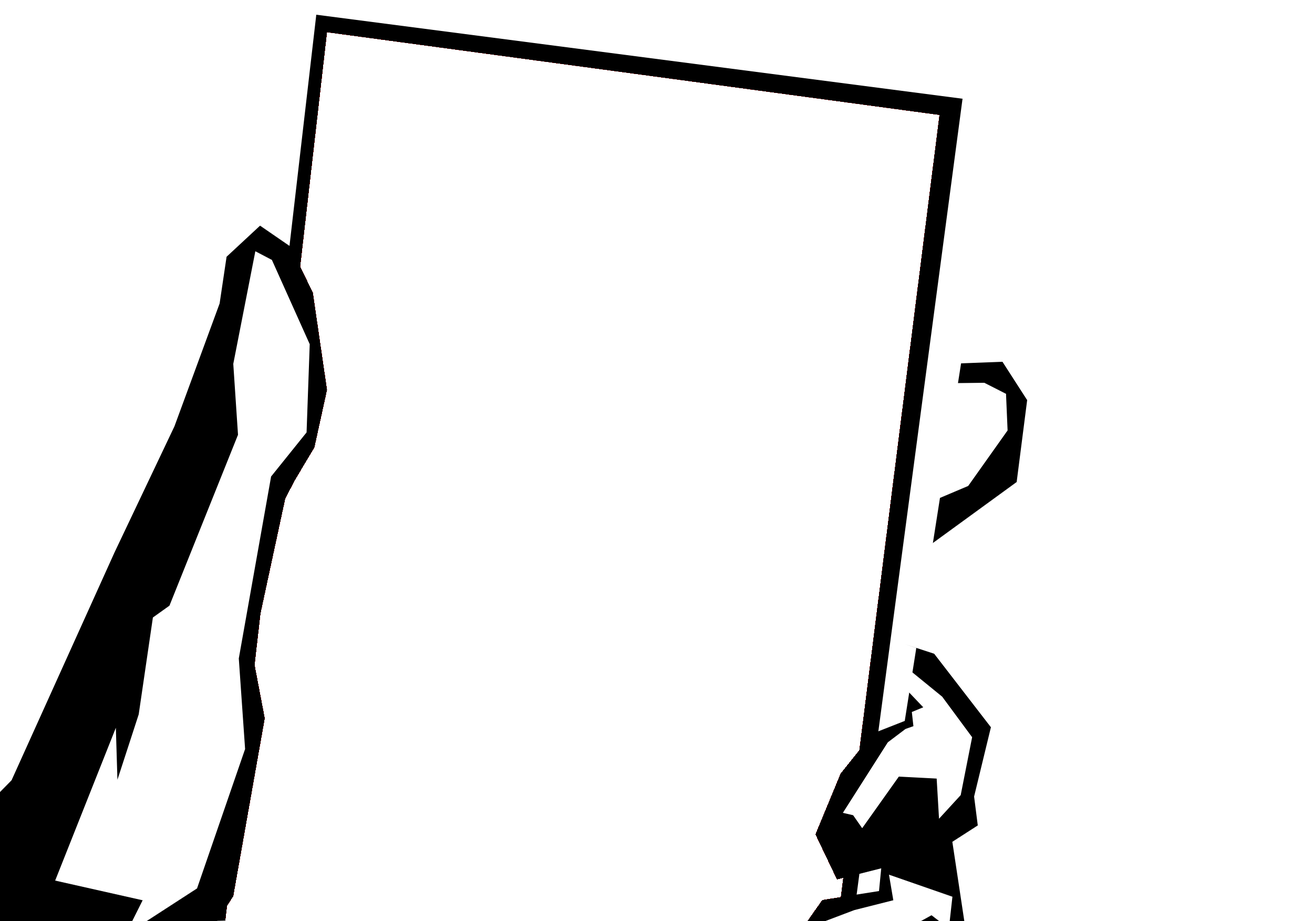
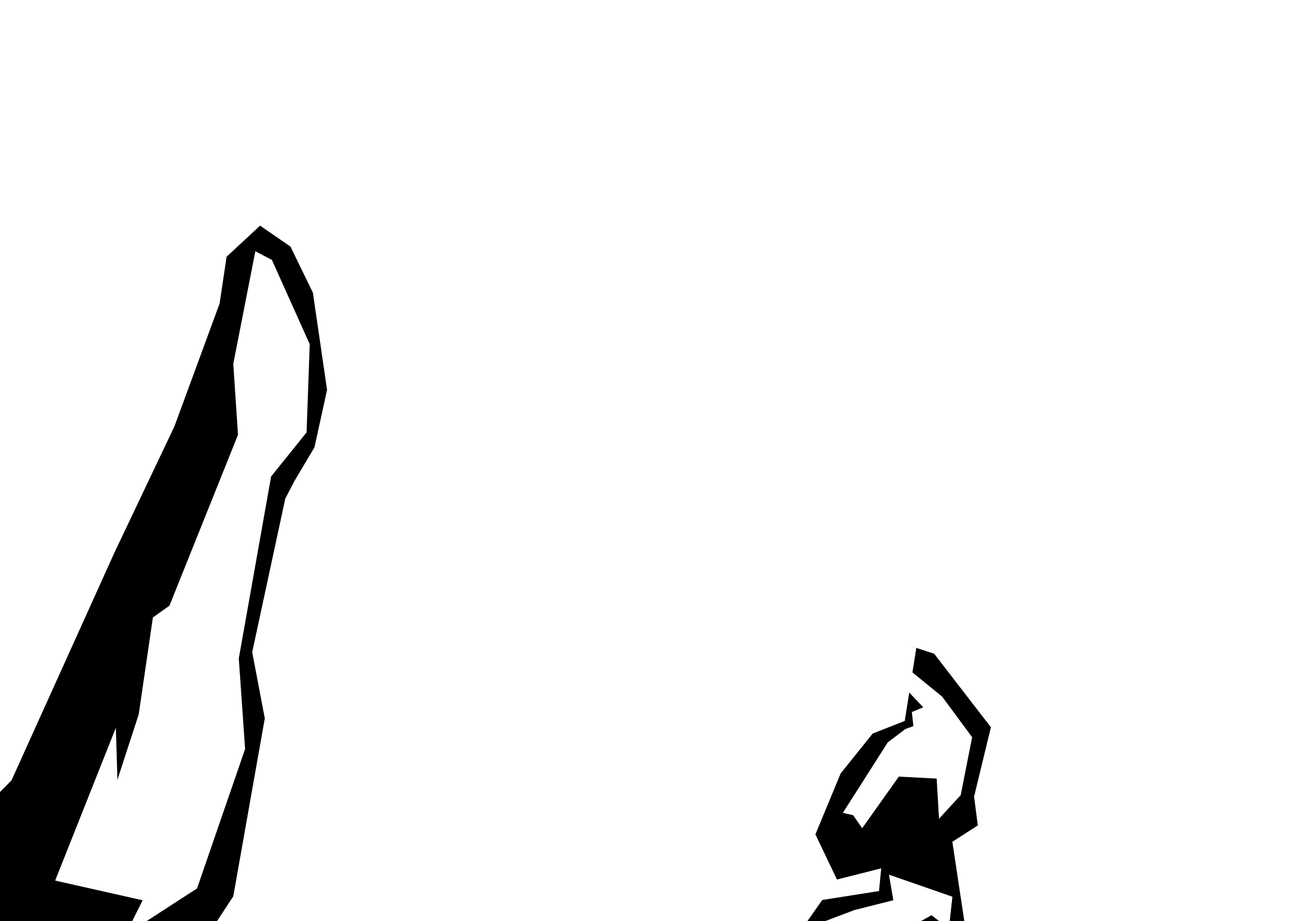
Celular em tamanho inteiro com mãos por cima (camadas separadas) e mapa em tela cheia
Claude-Session: https://claude.ai/code/session_01Tm8GAvJJ9y8sLRD2qUqjbi

Changed region(s): [[0.2173, 0.0, 0.8073, 0.8005], [0.621, 0.9544, 0.6831, 0.9852], [0.1552, 0.9852, 0.1863, 1.0]]

diff --git a/index.html b/index.html
@@ -205,30 +205,38 @@ a.btn{text-decoration:none;color:var(--bone);display:inline-block;text-align:cen
 .cel-mao{position:absolute;left:50%;bottom:0;width:min(98vw,calc(100vh * 1.414));aspect-ratio:2480/1754;transform:translate(-50%,105%) rotate(-14deg);transform-origin:50% 100%;transition:transform .42s cubic-bezier(.2,.9,.25,1.12)}
 .cel.show .cel-mao{transform:translate(-50%,3%) rotate(0deg)}
 .cel-mao img{position:absolute;inset:0;width:100%;height:100%;user-select:none}
-.cel-maos{pointer-events:none}
+.cel-maos{pointer-events:none;opacity:.8}
 .cel-mascara{position:absolute;inset:0;-webkit-mask-image:url(img/celular-mascara.png);mask-image:url(img/celular-mascara.png);-webkit-mask-size:100% 100%;mask-size:100% 100%}
-.cel-tela{position:absolute;left:24.8%;top:3.3%;width:48.3%;height:78%;transform:rotate(7.5deg);transform-origin:0 0;display:flex;flex-direction:column;padding:2.2% 3% 0 9%;color:#fff;font-size:14px}
+.cel-tela{font-size:15px;position:absolute;left:24.8%;top:3.3%;width:48.3%;height:96%;transform:rotate(7.5deg);transform-origin:0 0;display:flex;flex-direction:column;padding:2.2% 3% 0 4%;color:#fff;font-size:14px}
 .cel-topo{display:flex;align-items:center;gap:8px;padding:6px 0 8px;border-bottom:3px solid #000}
 .cel-topo h2{flex:1;margin:0;font:900 italic 22px/1 var(--display);color:#fff;text-shadow:3px 3px 0 #000;letter-spacing:.5px}
 .cel-hora{font:800 13px/1 var(--body);background:#000;color:#fff;padding:4px 8px;transform:skew(-10deg)}
 .cel-bt{width:34px;height:34px;display:grid;place-items:center;background:#000;color:#fff;border:2px solid #fff;font:900 18px/1 var(--body);cursor:pointer;transform:skew(-8deg)}
 .cel-bt:hover,.cel-bt:focus-visible{background:#fff;color:#000;outline:none}
-.cel-corpo{flex:1;overflow:auto;padding:10px 4px 32% 0;scrollbar-width:thin;scrollbar-color:#000 transparent}
+.cel-corpo{flex:1;overflow:auto;padding:10px 4px 60px 0;scrollbar-width:thin;scrollbar-color:#000 transparent}
 .cel-app{display:flex;flex-direction:column;gap:10px}
 .cel .panel{background:#0b0a0c;border:2px solid #fff;border-radius:2px;box-shadow:4px 4px 0 #000;padding:12px}
 .cel .panel:empty{display:none}
-.cel-grade{display:grid;grid-template-columns:repeat(3,minmax(0,1fr));gap:16px 10px;padding:8px 2px}
+.cel-grade{display:grid;grid-template-columns:repeat(3,minmax(0,1fr));gap:26px 12px;padding:14px 2px}
 .cel-ic{display:flex;flex-direction:column;align-items:center;gap:6px;background:none;border:0;cursor:pointer;color:#fff;padding:0}
-.cel-ic .q{width:64px;height:64px;display:grid;place-items:center;background:#fff;border:3px solid #000;box-shadow:4px 4px 0 #000;font:900 30px/1 'Shippori Mincho B1',serif;color:#000;transition:transform .12s}
+.cel-ic .q{width:78px;height:78px;display:grid;place-items:center;background:#fff;border:3px solid #000;box-shadow:4px 4px 0 #000;font:900 36px/1 'Shippori Mincho B1',serif;color:#000;transition:transform .12s}
 .cel-ic:nth-child(3n+2) .q{transform:rotate(4deg)}.cel-ic:nth-child(3n) .q{transform:rotate(-3deg)}.cel-ic:nth-child(3n+1) .q{transform:rotate(-5deg)}
 .cel-ic:hover .q,.cel-ic:focus-visible .q{transform:scale(1.08) rotate(0);background:#000;color:#fff;border-color:#fff}
 .cel-ic:focus-visible{outline:none}
-.cel-ic span{font:900 12px/1.1 var(--body);background:#000;color:#fff;padding:3px 7px;letter-spacing:.5px;text-transform:uppercase;transform:skew(-10deg)}
+.cel-ic span{font:900 14px/1.1 var(--body);background:#000;color:#fff;padding:3px 7px;letter-spacing:.5px;text-transform:uppercase;transform:skew(-10deg)}
 .cel-ic.off{opacity:.45}
 .mapa-cel{display:flex;flex-direction:column;gap:10px}
 .mapa-cel .map-frame{box-shadow:4px 4px 0 #000;border-width:2px}
 .cel .loc-card{background:#0b0a0c;border:2px solid #fff;padding:12px;border-radius:2px;box-shadow:4px 4px 0 #000}
 @media (prefers-reduced-motion:reduce){.cel-mao,.cel-fundo{transition:none}}
+.mapa-tela{position:fixed;inset:0;z-index:45;background:#0b0a0c;display:flex;flex-direction:column;gap:12px;padding:14px 18px 18px;overflow:auto;animation:mapaEntra .25s ease-out}
+@keyframes mapaEntra{from{opacity:0;transform:scale(1.03)}to{opacity:1;transform:none}}
+body.sem-animacao .mapa-tela{animation:none}
+.mapa-topo{display:flex;align-items:center;gap:12px}
+.mapa-topo h2{flex:1;margin:0;font:900 italic 30px/1 var(--display);color:#fff;text-shadow:3px 3px 0 #d3121c;letter-spacing:1px}
+.mapa-tela .mapa-grid{flex:1;grid-template-columns:minmax(0,1fr) 320px;align-items:start}
+.mapa-tela .map-frame{max-height:calc(100vh - 90px)}
+.mapa-tela #map{max-height:calc(100vh - 96px);width:100%}
 body.sem-animacao .cel-mao,body.sem-animacao .cel-fundo{transition:none}
 body.texto-grande .chat-log{font-size:17px}
 body:has(#view-mundo:not([hidden])) #btn-sair{display:none}
@@ -546,6 +554,10 @@ textarea.mono{font-family:ui-monospace,monospace;font-size:12px}
   </div>
 </div>
 
+<div class="mapa-tela" id="mapa-tela" role="dialog" aria-modal="true" aria-labelledby="mapa-tit" hidden>
+  <div class="mapa-topo"><button type="button" class="cel-bt" id="mapa-cel" aria-label="Voltar ao celular">‹</button><h2 id="mapa-tit">Mapa</h2><button type="button" class="cel-bt" id="mapa-fechar" aria-label="Fechar o mapa">✕</button></div>
+  <div id="mapa-view" class="mapa-grid"><div class="map-frame"><svg id="map" viewBox="0 0 1000 640" role="img" aria-label="Mapa de Tóquio e Kyoto"></svg></div><div class="loc-card" id="loc-card"></div></div>
+</div>
 <div class="cel" id="cel" hidden>
   <div class="cel-fundo" data-celfechar="1"></div>
   <div class="cel-mao" role="dialog" aria-modal="true" aria-labelledby="cel-titulo">
@@ -554,8 +566,6 @@ textarea.mono{font-family:ui-monospace,monospace;font-size:12px}
       <div class="cel-topo"><button type="button" class="cel-bt" id="cel-voltar" aria-label="Voltar">‹</button><h2 id="cel-titulo">Celular</h2><span class="cel-hora" id="cel-hora"></span><button type="button" class="cel-bt" data-celfechar="1" aria-label="Guardar o celular">✕</button></div>
       <div class="cel-corpo" id="cel-corpo">
         <section class="cel-app" data-app="home"><div class="cel-grade" id="cel-grade"></div></section>
-        <section class="cel-app" data-app="mapa" hidden>
-          <div id="mapa-view" class="mapa-cel"><div class="map-frame"><svg id="map" viewBox="0 0 1000 640" role="img" aria-label="Mapa de Tóquio e Kyoto"></svg></div><div class="loc-card" id="loc-card"></div></div></section>
         <section class="cel-app" data-app="objetivos" hidden><div class="panel" id="minha-missao"></div><div class="panel" id="cel-sem-missao"></div></section>
         <section class="cel-app" data-app="descanso" hidden><div class="panel" id="descanso-panel"></div><div class="panel" id="cel-sem-descanso"></div></section>
         <section class="cel-app" data-app="cena" hidden><div class="panel" id="presentes"></div><div class="panel" id="loc-info"></div></section>
@@ -1284,7 +1294,7 @@ function salvarMeuLocal(){try{localStorage.setItem('jjk-jogador',JSON.stringify(
 async function atualizarMeu(patch){
   meu={...meu,...patch,atualizado:new Date().toISOString()};jogadores.set(uid||'eu',{...meu});
   if(db&&uid){const ref=db.doc('jogadores/'+uid);writeChain=writeChain.then(()=>ref.update(patch)).catch(()=>{});await writeChain;}else salvarMeuLocal();
-  renderHud();if(canalAtual)renderPresentes();if(celApp==='mapa')renderMapa();if(celApp==='inventario')renderInv();if(celApp==='ficha')renderCelFicha();
+  renderHud();if(canalAtual)renderPresentes();if(mapaAberto)renderMapa();if(celApp==='inventario')renderInv();if(celApp==='ficha')renderCelFicha();
   if(patch.estado&&typeof sincronizarPvCombate==='function')sincronizarPvCombate();
 }
 
@@ -2467,13 +2477,17 @@ function renderCombate(){
 /* ---------- Seu celular ---------- */
 let celApp=null;
 const CEL_APPS=[['mapa','地','Mapa'],['objetivos','任','Objetivos'],['descanso','寮','Descanso'],['cena','人','Na cena'],['inventario','袋','Inventário'],['npcs','書','NPCs'],['ficha','札','Ficha'],['config','設','Ajustes']];
+let mapaAberto=false;
+function abrirMapa(){fecharCel(true);const m=$('#mapa-tela');m.hidden=false;mapaAberto=true;if(meu)selLoc=meu.local?raiz(meu.local):(selLoc||casaDe(myId()));renderMapa();setTimeout(()=>{const b=$('#mapa-fechar');b&&b.focus();},30);}
+function fecharMapa(){const m=$('#mapa-tela');if(m.hidden)return;m.hidden=true;mapaAberto=false;}
 const CEL_TIT={home:'Celular',mapa:'Mapa',objetivos:'Objetivos',descanso:'Descanso',cena:'Na cena',inventario:'Inventário',npcs:'Livro de NPCs',ficha:'Sua ficha',config:'Ajustes'};
 function abrirCel(app){
   const c=$('#cel');if(c.hidden){c.hidden=false;void c.offsetWidth;c.classList.add('show');}
   celIr(app||celApp||'home');setTimeout(()=>{const b=$('#cel-voltar');b&&b.focus();},50);
 }
-function fecharCel(){const c=$('#cel');if(c.hidden)return;c.classList.remove('show');celApp=null;setTimeout(()=>{if(!c.classList.contains('show'))c.hidden=true;},document.body.classList.contains('sem-animacao')?0:430);const b=$('#btn-cel');b&&b.focus();}
+function fecharCel(semFoco){const c=$('#cel');if(c.hidden)return;c.classList.remove('show');celApp=null;setTimeout(()=>{if(!c.classList.contains('show'))c.hidden=true;},document.body.classList.contains('sem-animacao')?0:430);if(!semFoco){const b=$('#btn-cel');b&&b.focus();}}
 function celIr(app){
+  if(app==='mapa'){abrirMapa();return;}
   celApp=app;document.querySelectorAll('#cel .cel-app').forEach(sec=>sec.hidden=sec.dataset.app!==app);
   $('#cel-titulo').textContent=CEL_TIT[app]||'Celular';$('#cel-voltar').style.visibility=app==='home'?'hidden':'visible';
   $('#cel-hora').textContent=new Date().toLocaleTimeString('pt-BR',{hour:'2-digit',minute:'2-digit'});$('#cel-corpo').scrollTop=0;
@@ -2483,7 +2497,6 @@ function renderCelApp(){
   const a=celApp;if(!a)return;
   if(a==='home'){const quarto=!!locById(canalAtual)?.quarto;
     $('#cel-grade').innerHTML=CEL_APPS.map(([k,kj,n])=>`<button type="button" class="cel-ic${k==='descanso'&&!quarto?' off':''}" data-celapp="${k}"><span class="q" aria-hidden="true">${kj}</span><span>${n}</span></button>`).join('');}
-  if(a==='mapa'){if(meu)selLoc=selLoc||raiz(meu.local||casaDe(myId()));renderMapa();}
   if(a==='objetivos'){renderMissoes();const mm=minhaMissao(),mp=missaoPessoal();$('#cel-sem-missao').innerHTML=mm||mp?'':'<p class="note" style="margin:0">Nenhuma missão no momento. Vá ao Quadro de Missões da escola para pegar um chamado.</p>';
     if(!mm&&!mp)$('#minha-missao').innerHTML='';}
   if(a==='descanso'){renderDescanso();const ok=!!locById(canalAtual)?.quarto;$('#cel-sem-descanso').innerHTML=ok?'':`<p class="note" style="margin:0">Descanso só no quarto do dormitório.</p>${meu?`<button class="btn small" data-celquarto="1" style="margin-top:8px">Ir para o meu quarto</button>`:''}`;}
@@ -2512,7 +2525,9 @@ function renderCelConfig(){
 }
 (()=>{try{if(localStorage.getItem('jjk-cfg-anim')==='0')document.body.classList.add('sem-animacao');if(localStorage.getItem('jjk-cfg-texto')==='g')document.body.classList.add('texto-grande');}catch{}})();
 document.addEventListener('click',e=>{
-  const t=e.target.closest('[data-celfechar],[data-celapp],#btn-cel,#cel-voltar,[data-celficha],[data-celcfg],[data-celquarto]');if(!t)return;
+  const t=e.target.closest('[data-celfechar],[data-celapp],#btn-cel,#cel-voltar,[data-celficha],[data-celcfg],[data-celquarto],#mapa-cel,#mapa-fechar');if(!t)return;
+  if(t.id==='mapa-fechar'){fecharMapa();const b=$('#btn-cel');b&&b.focus();return;}
+  if(t.id==='mapa-cel'){fecharMapa();abrirCel('home');return;}
   if(t.id==='btn-cel'){abrirCel();return;}
   if(t.id==='cel-voltar'){celIr('home');return;}
   if(t.dataset.celapp){celIr(t.dataset.celapp);return;}
@@ -2532,17 +2547,17 @@ async function route(){
   if(adm){$('#view-ficha').hidden=true;$('#view-mundo').hidden=true;renderAdmin();return;}
   const mundo=h==='mapa'||h.startsWith('local-');
   $('#view-ficha').hidden=mundo;$('#view-mundo').hidden=!mundo;
-  if(!mundo){fecharCel();if(canalUnsub){canalUnsub();canalUnsub=null;}canalAtual=null;return;}
+  if(!mundo){fecharCel(true);fecharMapa();if(canalUnsub){canalUnsub();canalUnsub=null;}canalAtual=null;return;}
   if(!F.nome.trim()){location.hash='ficha';return;}
   if(!meu)await ensureJogador();
   else{const mx=maximos(meu.bonusMax);if(['pv','pa','pe'].some(k=>mx[k]!==meu.max?.[k]))await atualizarMeu({max:mx,estado:{pv:Math.min(meu.estado.pv,mx.pv),pa:Math.min(meu.estado.pa,mx.pa),pe:Math.min(meu.estado.pe,mx.pe)}});}
   renderHud();
   if(h==='mapa'){selLoc=meu.local?raiz(meu.local):casaDe(myId());
-    if(meu.local){location.hash='local-'+meu.local;setTimeout(()=>abrirCel('mapa'),60);return;}
+    if(meu.local){location.hash='local-'+meu.local;setTimeout(abrirMapa,60);return;}
     if(canalUnsub){canalUnsub();canalUnsub=null;}canalAtual=null;msgs=[];
     $('#canal-view').hidden=false;$('#areas-bar').hidden=true;$('#world-title').textContent='Tóquio e Kyoto';$('#world-sub').textContent='Pegue o celular e escolha para onde ir no Mapa.';
     $('#chat-log').innerHTML='<p class="empty-chat">Você ainda não está em nenhum lugar. Abra <b>Seu celular</b> e escolha um destino no Mapa.</p>';
-    renderRoll();renderCombate();setTimeout(()=>abrirCel('mapa'),80);return;}
+    renderRoll();renderCombate();setTimeout(abrirMapa,80);return;}
   const id=h.slice(6);const l=locById(id);if(!l){location.hash='mapa';return;}
   if(meu.local!==id){await irPara(id);return;}
   $('#canal-view').hidden=false;$('#world-title').textContent=l.nome;$('#world-sub').textContent='Canal do local. Tudo que você escreve aqui o mestre e quem está na cena leem.';
@@ -2552,7 +2567,7 @@ window.addEventListener('hashchange',route);
 document.addEventListener('click',e=>{
   const n=e.target.closest('#map .node');if(n){selLoc=n.dataset.loc;renderMapa();return;}
   const b=e.target.closest('button');if(!b)return;
-  if(b.dataset.entrar){fecharCel();irPara(b.dataset.entrar);return;}
+  if(b.dataset.entrar){fecharCel(true);fecharMapa();irPara(b.dataset.entrar);return;}
   if(b.dataset.maceitar){aceitarMissao(b.dataset.maceitar);return;}
   if(b.dataset.mentrar){entrarMissao(b.dataset.mentrar);return;}
   if(b.dataset.msair){sairMissao(b.dataset.msair);return;}
@@ -2602,6 +2617,7 @@ document.addEventListener('click',e=>{
   if(b.id==='btn-fimcombate'){openModal('Encerrar o combate?','Use se a luta travou ou já acabou na história. Todos os inimigos somem da ordem de turnos.','','Encerrar combate',async()=>{closeModal();await encerrarCombate('encerrado');});return;}
 });
 document.addEventListener('keydown',e=>{
+  if(e.key==='Escape'&&mapaAberto){fecharMapa();return;}
   if(e.key==='Escape'&&!$('#cel').hidden){if(celApp&&celApp!=='home')celIr('home');else fecharCel();}
   const n=e.target.closest&&e.target.closest('#map .node');if(n&&(e.key==='Enter'||e.key===' ')){e.preventDefault();selLoc=n.dataset.loc;renderMapa();const el=document.querySelector(`#map .node[data-loc="${selLoc}"]`);el&&el.focus();}
   if(e.target.id==='chat-input'&&e.key==='Enter'&&!e.shiftKey){e.preventDefault();enviar();}
@@ -2864,7 +2880,7 @@ async function boot(){
         setTimeout(()=>{sincronizarPvCombate();},0);}
       if(d.id===uid)aplicarAdminNoJogador(x);});
     if(meu)jogadores.set(uid,{...meu});
-    renderHud();if(celApp==='mapa')renderMapa();if(canalAtual){renderPresentes();renderAreas();}if(celApp==='inventario')renderInv();if(!$('#view-admin').hidden)renderAdmLista();},()=>{});
+    renderHud();if(mapaAberto)renderMapa();if(canalAtual){renderPresentes();renderAreas();}if(celApp==='inventario')renderInv();if(!$('#view-admin').hidden)renderAdmLista();},()=>{});
   assinarMissoes();assinarTransferencias();assinarNpcs();assinarCampanha();
   try{souDono=!!(user&&await Promise.resolve(user.isOwner()));}catch{souDono=false;}
   document.querySelectorAll('.adm-link').forEach(a=>a.hidden=!souDono);

diff --git a/src/app.src.html b/src/app.src.html
@@ -205,30 +205,38 @@ a.btn{text-decoration:none;color:var(--bone);display:inline-block;text-align:cen
 .cel-mao{position:absolute;left:50%;bottom:0;width:min(98vw,calc(100vh * 1.414));aspect-ratio:2480/1754;transform:translate(-50%,105%) rotate(-14deg);transform-origin:50% 100%;transition:transform .42s cubic-bezier(.2,.9,.25,1.12)}
 .cel.show .cel-mao{transform:translate(-50%,3%) rotate(0deg)}
 .cel-mao img{position:absolute;inset:0;width:100%;height:100%;user-select:none}
-.cel-maos{pointer-events:none}
+.cel-maos{pointer-events:none;opacity:.8}
 .cel-mascara{position:absolute;inset:0;-webkit-mask-image:url(img/celular-mascara.png);mask-image:url(img/celular-mascara.png);-webkit-mask-size:100% 100%;mask-size:100% 100%}
-.cel-tela{position:absolute;left:24.8%;top:3.3%;width:48.3%;height:78%;transform:rotate(7.5deg);transform-origin:0 0;display:flex;flex-direction:column;padding:2.2% 3% 0 9%;color:#fff;font-size:14px}
+.cel-tela{font-size:15px;position:absolute;left:24.8%;top:3.3%;width:48.3%;height:96%;transform:rotate(7.5deg);transform-origin:0 0;display:flex;flex-direction:column;padding:2.2% 3% 0 4%;color:#fff;font-size:14px}
 .cel-topo{display:flex;align-items:center;gap:8px;padding:6px 0 8px;border-bottom:3px solid #000}
 .cel-topo h2{flex:1;margin:0;font:900 italic 22px/1 var(--display);color:#fff;text-shadow:3px 3px 0 #000;letter-spacing:.5px}
 .cel-hora{font:800 13px/1 var(--body);background:#000;color:#fff;padding:4px 8px;transform:skew(-10deg)}
 .cel-bt{width:34px;height:34px;display:grid;place-items:center;background:#000;color:#fff;border:2px solid #fff;font:900 18px/1 var(--body);cursor:pointer;transform:skew(-8deg)}
 .cel-bt:hover,.cel-bt:focus-visible{background:#fff;color:#000;outline:none}
-.cel-corpo{flex:1;overflow:auto;padding:10px 4px 32% 0;scrollbar-width:thin;scrollbar-color:#000 transparent}
+.cel-corpo{flex:1;overflow:auto;padding:10px 4px 60px 0;scrollbar-width:thin;scrollbar-color:#000 transparent}
 .cel-app{display:flex;flex-direction:column;gap:10px}
 .cel .panel{background:#0b0a0c;border:2px solid #fff;border-radius:2px;box-shadow:4px 4px 0 #000;padding:12px}
 .cel .panel:empty{display:none}
-.cel-grade{display:grid;grid-template-columns:repeat(3,minmax(0,1fr));gap:16px 10px;padding:8px 2px}
+.cel-grade{display:grid;grid-template-columns:repeat(3,minmax(0,1fr));gap:26px 12px;padding:14px 2px}
 .cel-ic{display:flex;flex-direction:column;align-items:center;gap:6px;background:none;border:0;cursor:pointer;color:#fff;padding:0}
-.cel-ic .q{width:64px;height:64px;display:grid;place-items:center;background:#fff;border:3px solid #000;box-shadow:4px 4px 0 #000;font:900 30px/1 'Shippori Mincho B1',serif;color:#000;transition:transform .12s}
+.cel-ic .q{width:78px;height:78px;display:grid;place-items:center;background:#fff;border:3px solid #000;box-shadow:4px 4px 0 #000;font:900 36px/1 'Shippori Mincho B1',serif;color:#000;transition:transform .12s}
 .cel-ic:nth-child(3n+2) .q{transform:rotate(4deg)}.cel-ic:nth-child(3n) .q{transform:rotate(-3deg)}.cel-ic:nth-child(3n+1) .q{transform:rotate(-5deg)}
 .cel-ic:hover .q,.cel-ic:focus-visible .q{transform:scale(1.08) rotate(0);background:#000;color:#fff;border-color:#fff}
 .cel-ic:focus-visible{outline:none}
-.cel-ic span{font:900 12px/1.1 var(--body);background:#000;color:#fff;padding:3px 7px;letter-spacing:.5px;text-transform:uppercase;transform:skew(-10deg)}
+.cel-ic span{font:900 14px/1.1 var(--body);background:#000;color:#fff;padding:3px 7px;letter-spacing:.5px;text-transform:uppercase;transform:skew(-10deg)}
 .cel-ic.off{opacity:.45}
 .mapa-cel{display:flex;flex-direction:column;gap:10px}
 .mapa-cel .map-frame{box-shadow:4px 4px 0 #000;border-width:2px}
 .cel .loc-card{background:#0b0a0c;border:2px solid #fff;padding:12px;border-radius:2px;box-shadow:4px 4px 0 #000}
 @media (prefers-reduced-motion:reduce){.cel-mao,.cel-fundo{transition:none}}
+.mapa-tela{position:fixed;inset:0;z-index:45;background:#0b0a0c;display:flex;flex-direction:column;gap:12px;padding:14px 18px 18px;overflow:auto;animation:mapaEntra .25s ease-out}
+@keyframes mapaEntra{from{opacity:0;transform:scale(1.03)}to{opacity:1;transform:none}}
+body.sem-animacao .mapa-tela{animation:none}
+.mapa-topo{display:flex;align-items:center;gap:12px}
+.mapa-topo h2{flex:1;margin:0;font:900 italic 30px/1 var(--display);color:#fff;text-shadow:3px 3px 0 #d3121c;letter-spacing:1px}
+.mapa-tela .mapa-grid{flex:1;grid-template-columns:minmax(0,1fr) 320px;align-items:start}
+.mapa-tela .map-frame{max-height:calc(100vh - 90px)}
+.mapa-tela #map{max-height:calc(100vh - 96px);width:100%}
 body.sem-animacao .cel-mao,body.sem-animacao .cel-fundo{transition:none}
 body.texto-grande .chat-log{font-size:17px}
 body:has(#view-mundo:not([hidden])) #btn-sair{display:none}
@@ -546,6 +554,10 @@ textarea.mono{font-family:ui-monospace,monospace;font-size:12px}
   </div>
 </div>
 
+<div class="mapa-tela" id="mapa-tela" role="dialog" aria-modal="true" aria-labelledby="mapa-tit" hidden>
+  <div class="mapa-topo"><button type="button" class="cel-bt" id="mapa-cel" aria-label="Voltar ao celular">‹</button><h2 id="mapa-tit">Mapa</h2><button type="button" class="cel-bt" id="mapa-fechar" aria-label="Fechar o mapa">✕</button></div>
+  <div id="mapa-view" class="mapa-grid"><div class="map-frame"><svg id="map" viewBox="0 0 1000 640" role="img" aria-label="Mapa de Tóquio e Kyoto"></svg></div><div class="loc-card" id="loc-card"></div></div>
+</div>
 <div class="cel" id="cel" hidden>
   <div class="cel-fundo" data-celfechar="1"></div>
   <div class="cel-mao" role="dialog" aria-modal="true" aria-labelledby="cel-titulo">
@@ -554,8 +566,6 @@ textarea.mono{font-family:ui-monospace,monospace;font-size:12px}
       <div class="cel-topo"><button type="button" class="cel-bt" id="cel-voltar" aria-label="Voltar">‹</button><h2 id="cel-titulo">Celular</h2><span class="cel-hora" id="cel-hora"></span><button type="button" class="cel-bt" data-celfechar="1" aria-label="Guardar o celular">✕</button></div>
       <div class="cel-corpo" id="cel-corpo">
         <section class="cel-app" data-app="home"><div class="cel-grade" id="cel-grade"></div></section>
-        <section class="cel-app" data-app="mapa" hidden>
-          <div id="mapa-view" class="mapa-cel"><div class="map-frame"><svg id="map" viewBox="0 0 1000 640" role="img" aria-label="Mapa de Tóquio e Kyoto"></svg></div><div class="loc-card" id="loc-card"></div></div></section>
         <section class="cel-app" data-app="objetivos" hidden><div class="panel" id="minha-missao"></div><div class="panel" id="cel-sem-missao"></div></section>
         <section class="cel-app" data-app="descanso" hidden><div class="panel" id="descanso-panel"></div><div class="panel" id="cel-sem-descanso"></div></section>
         <section class="cel-app" data-app="cena" hidden><div class="panel" id="presentes"></div><div class="panel" id="loc-info"></div></section>
@@ -1282,7 +1292,7 @@ function salvarMeuLocal(){try{localStorage.setItem('jjk-jogador',JSON.stringify(
 async function atualizarMeu(patch){
   meu={...meu,...patch,atualizado:new Date().toISOString()};jogadores.set(uid||'eu',{...meu});
   if(db&&uid){const ref=db.doc('jogadores/'+uid);writeChain=writeChain.then(()=>ref.update(patch)).catch(()=>{});await writeChain;}else salvarMeuLocal();
-  renderHud();if(canalAtual)renderPresentes();if(celApp==='mapa')renderMapa();if(celApp==='inventario')renderInv();if(celApp==='ficha')renderCelFicha();
+  renderHud();if(canalAtual)renderPresentes();if(mapaAberto)renderMapa();if(celApp==='inventario')renderInv();if(celApp==='ficha')renderCelFicha();
   if(patch.estado&&typeof sincronizarPvCombate==='function')sincronizarPvCombate();
 }
 
@@ -2465,13 +2475,17 @@ function renderCombate(){
 /* ---------- Seu celular ---------- */
 let celApp=null;
 const CEL_APPS=[['mapa','地','Mapa'],['objetivos','任','Objetivos'],['descanso','寮','Descanso'],['cena','人','Na cena'],['inventario','袋','Inventário'],['npcs','書','NPCs'],['ficha','札','Ficha'],['config','設','Ajustes']];
+let mapaAberto=false;
+function abrirMapa(){fecharCel(true);const m=$('#mapa-tela');m.hidden=false;mapaAberto=true;if(meu)selLoc=meu.local?raiz(meu.local):(selLoc||casaDe(myId()));renderMapa();setTimeout(()=>{const b=$('#mapa-fechar');b&&b.focus();},30);}
+function fecharMapa(){const m=$('#mapa-tela');if(m.hidden)return;m.hidden=true;mapaAberto=false;}
 const CEL_TIT={home:'Celular',mapa:'Mapa',objetivos:'Objetivos',descanso:'Descanso',cena:'Na cena',inventario:'Inventário',npcs:'Livro de NPCs',ficha:'Sua ficha',config:'Ajustes'};
 function abrirCel(app){
   const c=$('#cel');if(c.hidden){c.hidden=false;void c.offsetWidth;c.classList.add('show');}
   celIr(app||celApp||'home');setTimeout(()=>{const b=$('#cel-voltar');b&&b.focus();},50);
 }
-function fecharCel(){const c=$('#cel');if(c.hidden)return;c.classList.remove('show');celApp=null;setTimeout(()=>{if(!c.classList.contains('show'))c.hidden=true;},document.body.classList.contains('sem-animacao')?0:430);const b=$('#btn-cel');b&&b.focus();}
+function fecharCel(semFoco){const c=$('#cel');if(c.hidden)return;c.classList.remove('show');celApp=null;setTimeout(()=>{if(!c.classList.contains('show'))c.hidden=true;},document.body.classList.contains('sem-animacao')?0:430);if(!semFoco){const b=$('#btn-cel');b&&b.focus();}}
 function celIr(app){
+  if(app==='mapa'){abrirMapa();return;}
   celApp=app;document.querySelectorAll('#cel .cel-app').forEach(sec=>sec.hidden=sec.dataset.app!==app);
   $('#cel-titulo').textContent=CEL_TIT[app]||'Celular';$('#cel-voltar').style.visibility=app==='home'?'hidden':'visible';
   $('#cel-hora').textContent=new Date().toLocaleTimeString('pt-BR',{hour:'2-digit',minute:'2-digit'});$('#cel-corpo').scrollTop=0;
@@ -2481,7 +2495,6 @@ function renderCelApp(){
   const a=celApp;if(!a)return;
   if(a==='home'){const quarto=!!locById(canalAtual)?.quarto;
     $('#cel-grade').innerHTML=CEL_APPS.map(([k,kj,n])=>`<button type="button" class="cel-ic${k==='descanso'&&!quarto?' off':''}" data-celapp="${k}"><span class="q" aria-hidden="true">${kj}</span><span>${n}</span></button>`).join('');}
-  if(a==='mapa'){if(meu)selLoc=selLoc||raiz(meu.local||casaDe(myId()));renderMapa();}
   if(a==='objetivos'){renderMissoes();const mm=minhaMissao(),mp=missaoPessoal();$('#cel-sem-missao').innerHTML=mm||mp?'':'<p class="note" style="margin:0">Nenhuma missão no momento. Vá ao Quadro de Missões da escola para pegar um chamado.</p>';
     if(!mm&&!mp)$('#minha-missao').innerHTML='';}
   if(a==='descanso'){renderDescanso();const ok=!!locById(canalAtual)?.quarto;$('#cel-sem-descanso').innerHTML=ok?'':`<p class="note" style="margin:0">Descanso só no quarto do dormitório.</p>${meu?`<button class="btn small" data-celquarto="1" style="margin-top:8px">Ir para o meu quarto</button>`:''}`;}
@@ -2510,7 +2523,9 @@ function renderCelConfig(){
 }
 (()=>{try{if(localStorage.getItem('jjk-cfg-anim')==='0')document.body.classList.add('sem-animacao');if(localStorage.getItem('jjk-cfg-texto')==='g')document.body.classList.add('texto-grande');}catch{}})();
 document.addEventListener('click',e=>{
-  const t=e.target.closest('[data-celfechar],[data-celapp],#btn-cel,#cel-voltar,[data-celficha],[data-celcfg],[data-celquarto]');if(!t)return;
+  const t=e.target.closest('[data-celfechar],[data-celapp],#btn-cel,#cel-voltar,[data-celficha],[data-celcfg],[data-celquarto],#mapa-cel,#mapa-fechar');if(!t)return;
+  if(t.id==='mapa-fechar'){fecharMapa();const b=$('#btn-cel');b&&b.focus();return;}
+  if(t.id==='mapa-cel'){fecharMapa();abrirCel('home');return;}
   if(t.id==='btn-cel'){abrirCel();return;}
   if(t.id==='cel-voltar'){celIr('home');return;}
   if(t.dataset.celapp){celIr(t.dataset.celapp);return;}
@@ -2530,17 +2545,17 @@ async function route(){
   if(adm){$('#view-ficha').hidden=true;$('#view-mundo').hidden=true;renderAdmin();return;}
   const mundo=h==='mapa'||h.startsWith('local-');
   $('#view-ficha').hidden=mundo;$('#view-mundo').hidden=!mundo;
-  if(!mundo){fecharCel();if(canalUnsub){canalUnsub();canalUnsub=null;}canalAtual=null;return;}
+  if(!mundo){fecharCel(true);fecharMapa();if(canalUnsub){canalUnsub();canalUnsub=null;}canalAtual=null;return;}
   if(!F.nome.trim()){location.hash='ficha';return;}
   if(!meu)await ensureJogador();
   else{const mx=maximos(meu.bonusMax);if(['pv','pa','pe'].some(k=>mx[k]!==meu.max?.[k]))await atualizarMeu({max:mx,estado:{pv:Math.min(meu.estado.pv,mx.pv),pa:Math.min(meu.estado.pa,mx.pa),pe:Math.min(meu.estado.pe,mx.pe)}});}
   renderHud();
   if(h==='mapa'){selLoc=meu.local?raiz(meu.local):casaDe(myId());
-    if(meu.local){location.hash='local-'+meu.local;setTimeout(()=>abrirCel('mapa'),60);return;}
+    if(meu.local){location.hash='local-'+meu.local;setTimeout(abrirMapa,60);return;}
     if(canalUnsub){canalUnsub();canalUnsub=null;}canalAtual=null;msgs=[];
     $('#canal-view').hidden=false;$('#areas-bar').hidden=true;$('#world-title').textContent='Tóquio e Kyoto';$('#world-sub').textContent='Pegue o celular e escolha para onde ir no Mapa.';
     $('#chat-log').innerHTML='<p class="empty-chat">Você ainda não está em nenhum lugar. Abra <b>Seu celular</b> e escolha um destino no Mapa.</p>';
-    renderRoll();renderCombate();setTimeout(()=>abrirCel('mapa'),80);return;}
+    renderRoll();renderCombate();setTimeout(abrirMapa,80);return;}
   const id=h.slice(6);const l=locById(id);if(!l){location.hash='mapa';return;}
   if(meu.local!==id){await irPara(id);return;}
   $('#canal-view').hidden=false;$('#world-title').textContent=l.nome;$('#world-sub').textContent='Canal do local. Tudo que você escreve aqui o mestre e quem está na cena leem.';
@@ -2550,7 +2565,7 @@ window.addEventListener('hashchange',route);
 document.addEventListener('click',e=>{
   const n=e.target.closest('#map .node');if(n){selLoc=n.dataset.loc;renderMapa();return;}
   const b=e.target.closest('button');if(!b)return;
-  if(b.dataset.entrar){fecharCel();irPara(b.dataset.entrar);return;}
+  if(b.dataset.entrar){fecharCel(true);fecharMapa();irPara(b.dataset.entrar);return;}
   if(b.dataset.maceitar){aceitarMissao(b.dataset.maceitar);return;}
   if(b.dataset.mentrar){entrarMissao(b.dataset.mentrar);return;}
   if(b.dataset.msair){sairMissao(b.dataset.msair);return;}
@@ -2600,6 +2615,7 @@ document.addEventListener('click',e=>{
   if(b.id==='btn-fimcombate'){openModal('Encerrar o combate?','Use se a luta travou ou já acabou na história. Todos os inimigos somem da ordem de turnos.','','Encerrar combate',async()=>{closeModal();await encerrarCombate('encerrado');});return;}
 });
 document.addEventListener('keydown',e=>{
+  if(e.key==='Escape'&&mapaAberto){fecharMapa();return;}
   if(e.key==='Escape'&&!$('#cel').hidden){if(celApp&&celApp!=='home')celIr('home');else fecharCel();}
   const n=e.target.closest&&e.target.closest('#map .node');if(n&&(e.key==='Enter'||e.key===' ')){e.preventDefault();selLoc=n.dataset.loc;renderMapa();const el=document.querySelector(`#map .node[data-loc="${selLoc}"]`);el&&el.focus();}
   if(e.target.id==='chat-input'&&e.key==='Enter'&&!e.shiftKey){e.preventDefault();enviar();}
@@ -2862,7 +2878,7 @@ async function boot(){
         setTimeout(()=>{sincronizarPvCombate();},0);}
       if(d.id===uid)aplicarAdminNoJogador(x);});
     if(meu)jogadores.set(uid,{...meu});
-    renderHud();if(celApp==='mapa')renderMapa();if(canalAtual){renderPresentes();renderAreas();}if(celApp==='inventario')renderInv();if(!$('#view-admin').hidden)renderAdmLista();},()=>{});
+    renderHud();if(mapaAberto)renderMapa();if(canalAtual){renderPresentes();renderAreas();}if(celApp==='inventario')renderInv();if(!$('#view-admin').hidden)renderAdmLista();},()=>{});
   assinarMissoes();assinarTransferencias();assinarNpcs();assinarCampanha();
   try{souDono=!!(user&&await Promise.resolve(user.isOwner()));}catch{souDono=false;}
   document.querySelectorAll('.adm-link').forEach(a=>a.hidden=!souDono);
